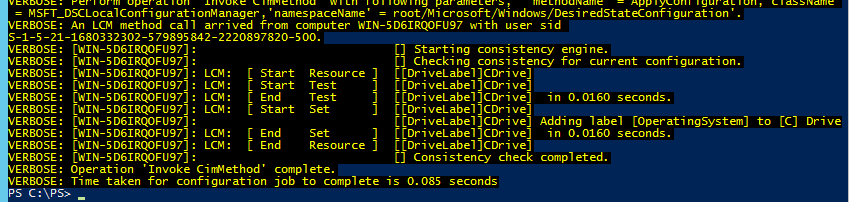
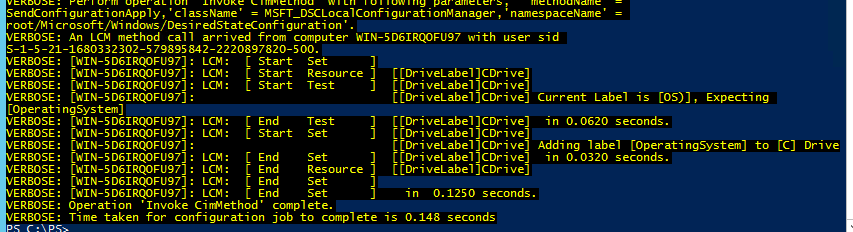
Creating A DSC Class-Based Resource

diff --git a/_posts/2017-05-24-Creating A DSC Class-Based Resource.md b/_posts/2017-05-24-Creating A DSC Class-Based Resource.md
@@ -1,6 +1,6 @@
 ---
 layout: post
-title: DSC Class-Based Resources
+title: Creating A DSC Class-Based Resource
 ---
 Now that we know what a PowerShell class is, it's time we start putting them to use.
 Classes are new with version 5 and one of the best places for them is DSC. 
@@ -9,7 +9,7 @@ If you need a refresher on the basics of a PowerShell class, please see my previ
 **The Good Stuff**: How to create a DSC Class-Based Resource.
 <!-- TOC -->
 
-- [Declaring a Resource](#declaring-a-resource)
+- [Declaring A Resource](#declaring-a-resource)
     - [Resource Parameters - Properties](#resource-parameters---properties)
         - [DscProperty - Key](#dscproperty---key)
         - [DscProperty - Mandatory](#dscproperty---mandatory)
@@ -23,11 +23,11 @@ If you need a refresher on the basics of a PowerShell class, please see my previ
     - [PSM1 Module](#psm1-module)
 - [Working With The Resource](#working-with-the-resource)
     - [Checking Syntax](#checking-syntax)
-    - [Creating a Configuration](#creating-a-configuration)
+    - [Creating A Configuration](#creating-a-configuration)
 - [Wrapping Up](#wrapping-up)
 
 <!-- /TOC -->
-# Declaring a Resource
+# Declaring A Resource
 The example for today will be a resource to update the drive label.
 To define our new resource, we start by creating a class.
 The only difference is, just before the class declaration we're going to add the ```[DSCResource]``` attribute.
@@ -146,16 +146,9 @@ class DriveLabel
 ...
     [bool]Test()
     {
-        $labelCorrect = Get-Volume -DriveLetter $this.DriveLetter |
-            Where-Object -FilterScript {$PSItem.FileSystemLabel -eq $this.Label}
-        if($labelCorrect)
-        {
-            return $true
-        }
-        else
-        {
-            return $false
-        }
+        $currentLabel = (Get-Volume -DriveLetter $this.DriveLetter).FileSystemLabel
+        Write-Verbose -Message "Current Label is [$currentLabel)], Expecting [$($this.Label)]"
+        return ($currentLabel -eq $this.Label)
     }
 ...
 }
@@ -184,10 +177,10 @@ First we'll need a new directory to hold all of our files.
 New-Item -Path DCDisk -ItemType Directory
 ```
 ## Module Manifest
-Inside of the new directory we need to create a module manifest. 
-My list of parameters gets a little long so I like to create a hashtable and splat them into ```New-ModuleManifest```.
-Notice the ```DscResourcesToExport``` key?
-Remember that as you add resources to a module, this needs to be updated inside of the manifest.
+Inside of the directory we're going to need a manifest.
+My list of parameters gets a little long so I like to create a hashtable and splat them into the ```New-ModuleManifest``` cmdlet.
+Be sure to notice the ```DscResourcesToExport``` key.
+Remember that as you add resources to a module, this value needs to be updated inside of the manifest.
 ```powershell
 $manifestProperties = @{
     Path = 'DCDisk.psd1'
@@ -231,17 +224,9 @@ class DriveLabel
 
     [bool]Test()
     {
-        $labelCorrect = Get-Volume -DriveLetter $this.DriveLetter |
-            Where-Object -FilterScript {$PSItem.FileSystemLabel -eq $this.Label}
-        
-        if($labelCorrect)
-        {
-            return $true
-        }
-        else
-        {
-            return $false
-        }
+        $currentLabel = (Get-Volume -DriveLetter $this.DriveLetter).FileSystemLabel
+        Write-Verbose -Message "Current Label is [$currentLabel)], Expecting [$($this.Label)]"
+        return ($currentLabel -eq $this.Label)
     }
 
     [void]Set()
@@ -252,10 +237,10 @@ class DriveLabel
     }
 }
 ```
-With these two files saved, we can place the entire folder in our module directory, ```"$Env:ProgramFiles\WindowsPowerShell\Modules\"```
+With these two files saved, we can place the entire folder in our module directory (```"$Env:ProgramFiles\WindowsPowerShell\Modules\"```).
 # Working With The Resource
 ## Checking Syntax
-Now let's see if our resource is properly registered.
+Now we need to see if our resource is properly registered.
 To do this, we can call the ```Get-DscResource``` cmdlet.
 I also include the ```Syntax``` switch to inspect the parameters.
 Two birds one stone.
@@ -272,9 +257,9 @@ DriveLabel [String] #ResourceName
     [PsDscRunAsCredential = [PSCredential]]
 }
 ```
-## Creating a Configuration
+## Creating A Configuration
 Ok moment of truth. 
-Let's create a new configuration to test the new resource.
+Let's create a configuration to test the new resource.
 ```powershell
 configuration DiskConfig
 {
@@ -301,9 +286,14 @@ Pop-Location
 Here's a screen shot of our resource in action.
 ![_config.yml]({{ site.baseurl }}/images/dscClassesRun.png)
 
-Also, remember since we set our ```NotConfigurable``` it will be returned in our ```Get```
+We also had the ```NotConfigurable``` property for the file system type.
+While it wasn't a parameter, it is present in the get method. 
+This screen shot shows our complete class. 
+```powershell
+Get-DscConfiguration
+```
 ![_config.yml]({{ site.baseurl }}/images/dscClassesGet.png)
 # Wrapping Up
 Thats really it for a basic DSC Class-Based resource.
 I hope this post was helpful and points you in the right direction creating your own resources.
-Stay on the look out for an upcoming post where we'll cover a more advanced example. 
+Coming up in a future post, we'll cover a more complex example and talk about some troubleshooting techniques. 
